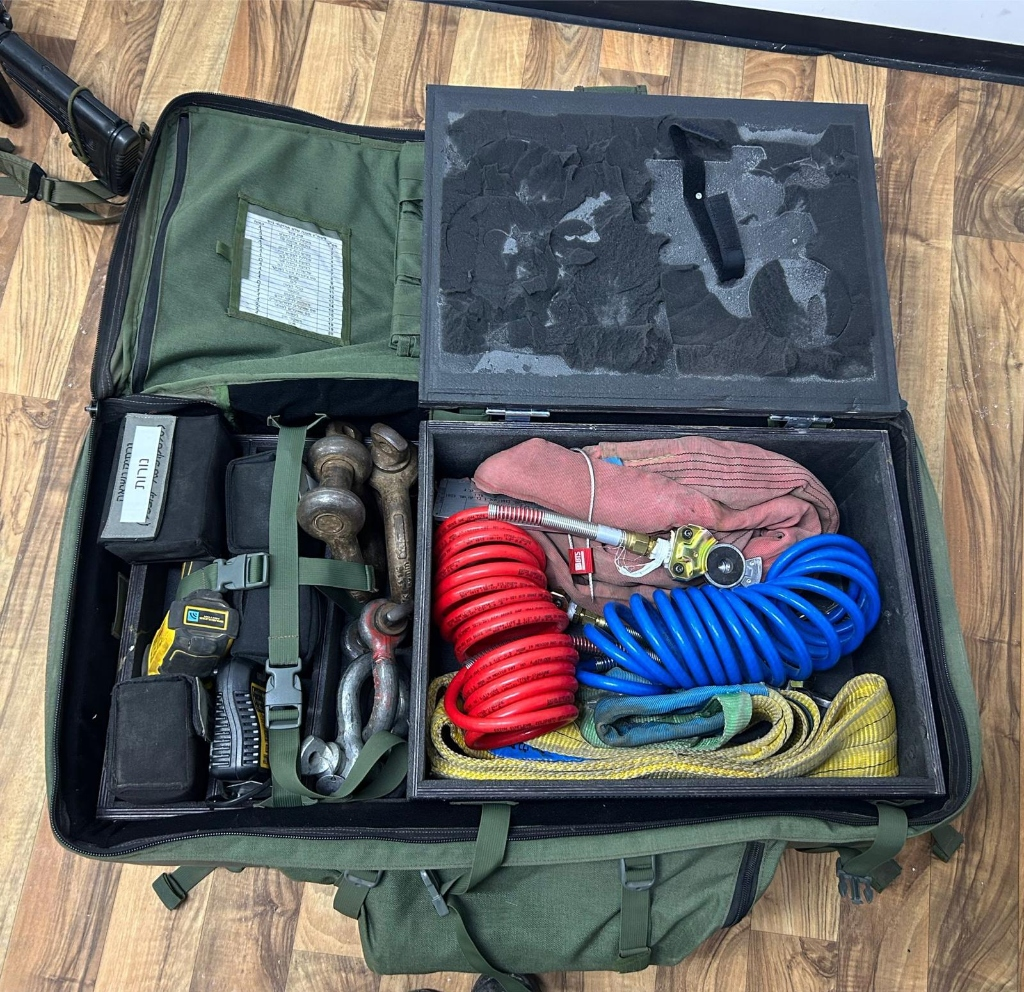
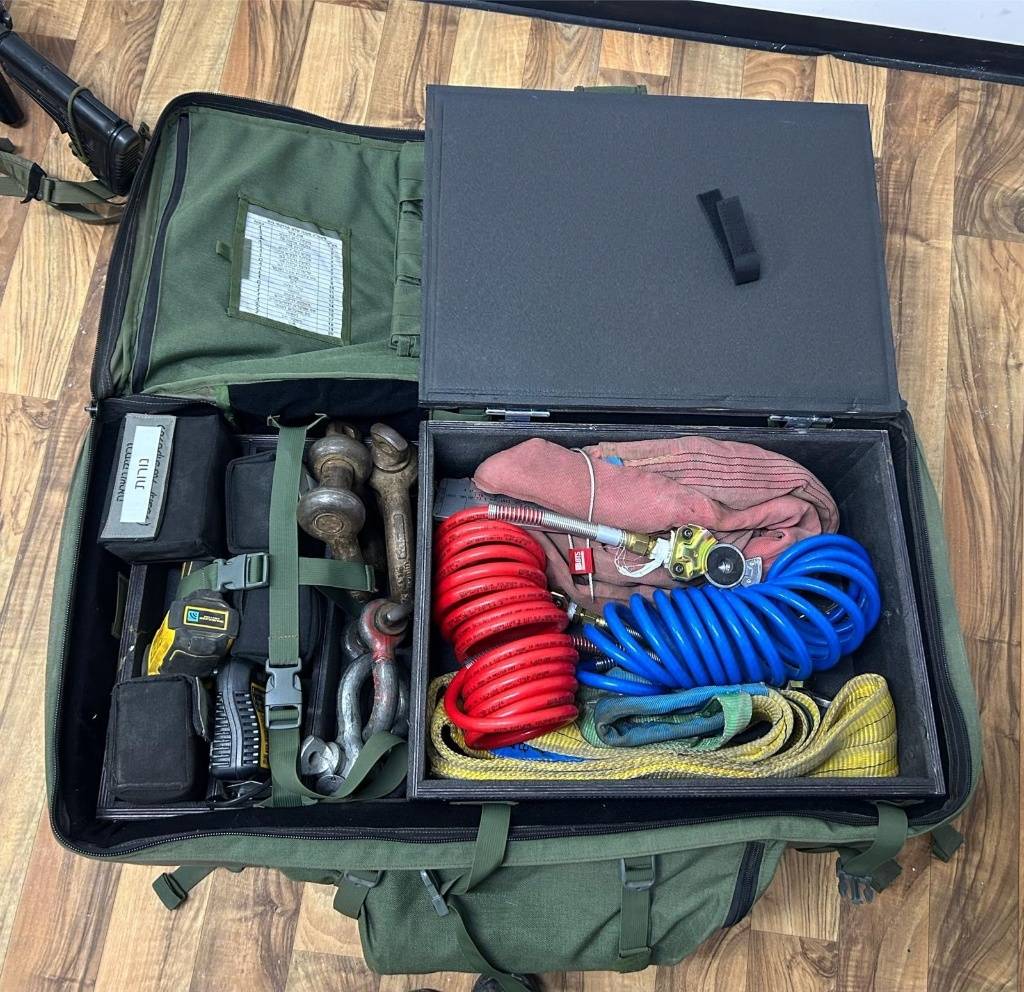
Smooth open foam lid in 04 bp-towing-open.jpg and align compartment captions with BOM

Changed region(s): [[0.4062, 0.0938, 0.875, 0.4062]]

diff --git a/index.html b/index.html
@@ -1600,9 +1600,9 @@
                     <img src="bp-interior.jpg" alt="03 פנים התיק וחלוקת התאים" loading="lazy" />
                     <span class="bp-thumb-num">03 פנים התיק</span>
                   </button>
-                  <button type="button" class="bp-thumb-btn" id="bpThumb-3" onclick="selectBpZone(3)" title="04 תא החילוץ וצינורות האוויר (פתוח)">
-                    <img src="bp-towing-open.jpg" alt="04 תא החילוץ וצינורות האוויר (פתוח)" loading="lazy" />
-                    <span class="bp-thumb-num">04 תא חילוץ</span>
+                  <button type="button" class="bp-thumb-btn" id="bpThumb-3" onclick="selectBpZone(3)" title="04 תא רצועות גרירה וחילוץ (פתוח)">
+                    <img src="bp-towing-open.jpg" alt="04 תא רצועות גרירה וחילוץ (פתוח)" loading="lazy" />
+                    <span class="bp-thumb-num">04 תא גרירה</span>
                   </button>
                   <button type="button" class="bp-thumb-btn" id="bpThumb-4" onclick="selectBpZone(4)" title="05 מעטפת חיצונית ומיתוג מענה שלם">
                     <img src="bp-exterior.jpg" alt="05 מעטפת חיצונית ומיתוג מענה שלם" loading="lazy" />
@@ -1625,7 +1625,7 @@
                     <button type="button" class="marker-tab active" id="mTab-0" onclick="selectBpZone(0)">01 שרטוט מבנה הנדסי (שחור-לבן)</button>
                     <button type="button" class="marker-tab" id="mTab-1" onclick="selectBpZone(1)">02 שרטוט מפרט צבעוני ליצרן</button>
                     <button type="button" class="marker-tab" id="mTab-2" onclick="selectBpZone(2)">03 פנים התיק (מכסה סגור)</button>
-                    <button type="button" class="marker-tab" id="mTab-3" onclick="selectBpZone(3)">04 תא חילוץ וצינורות אוויר (פתוח)</button>
+                    <button type="button" class="marker-tab" id="mTab-3" onclick="selectBpZone(3)">04 תא רצועות גרירה וחילוץ (פתוח)</button>
                     <button type="button" class="marker-tab" id="mTab-4" onclick="selectBpZone(4)">05 מעטפת חיצונית ("מענה שלם")</button>
                     <button type="button" class="marker-tab" id="mTab-5" onclick="selectBpZone(5)">06 הנדסת אנוש וניסוי נשיאה</button>
                     <button type="button" class="marker-tab" id="mTab-6" onclick="selectBpZone(6)">07 רשמ"צ מובנה (20 פריטים)</button>
@@ -1958,11 +1958,11 @@
       },
       {
         img: 'bp-towing-open.jpg',
-        code: 'תצוגה 04 / תא החילוץ הפנימי ומערך צינורות האוויר (פתוח)',
-        title: 'פתיחת תא החילוץ הפנימי: רצועות גרירה וסט צינורות אוויר',
-        desc: 'פתיחת מכסה הצירים המרופד של הארגז הפנימי חושפת את מערך החילוץ והאוויר המאורגן: רצועות גרירה 3 מ׳ ו-9 מ׳, סט צינורות אוויר ספירליים (אדום וכחול) עם מחברי לחץ מהירים לרכבים ממוגנים, ולצידם סטי השאקלים ופטיש הכוח המעוגנים במקומם.',
+        code: 'תצוגה 04 / תא רצועות גרירה וחילוץ בפתיחה מלאה',
+        title: 'תא רצועות גרירה וחילוץ (פתוח): רצועות גרירה 3 מ׳ ו-9 מ׳ ואביזרי חילוץ',
+        desc: 'פתיחת מכסה הספוג המוקשח של תא "רצועות גרירה" חושפת את פריטי החילוץ המעוגנים בתוך הארגז הפנימי בהתאם לרשמ"צ (תמונה 07): רצועת גרירה 3 מ׳, רצועת גרירה 9 מ׳, אביזרי לחץ וחיבור מהיר לרכבים ממוגנים, ולצידם סטי השאקלים, פטיש כוח + מטען ו-2 סוללות, ומארז הנורות.',
         mat: 'ארגז פנימי מוקשח עם מכסה צירים מרופד ספוג',
-        kpi: 'שליפה מיידית של מערך הגרירה והאוויר תחת לחץ מבצעי'
+        kpi: 'שליפה מיידית של מערך הגרירה והחילוץ תחת לחץ מבצעי'
       },
       {
         img: 'bp-exterior.jpg',

diff --git a/README.md b/README.md
@@ -209,18 +209,18 @@
   <thead>
     <tr align="right">
       <th align="right" width="50%">03 פנים התיק בפועל (פתיחה מלאה 180 מעלות)</th>
-      <th align="right" width="50%">04 תא החילוץ הפנימי וסט צינורות האוויר (פתוח)</th>
+      <th align="right" width="50%">04 תא רצועות גרירה וחילוץ (פתוח)</th>
     </tr>
   </thead>
   <tbody>
     <tr align="right">
       <td align="right">
         <img src="https://yulishamir.github.io/bp-interior.jpg" alt="פנים התיק בפועל בפתיחה מלאה" width="100%" /><br/>
-        המוצר המוגמר בפתיחה מלאה: בדופן התחתונה תא ספוג קשיח עם מכסה ואבזמים עבור רצועות הגרירה, לצד עיגון לשאקלים, פטיש כוח, מטען ותא נורות. בדופן העליונה כיסים מתויגים וחלון רשמ"צ שקוף.
+        המוצר המוגמר בפתיחה מלאה: בדופן התחתונה תא ספוג קשיח המסומן "רצועות גרירה" עם מכסה ואבזמים, לצד עיגון לשאקלים, פטיש כוח, מטען ותא "נורות". בדופן העליונה כיסים מתויגים (מטען טאבלט, אזיקונים, סרט בידוד, שמן נשקים, מטלית לניקוי ידיים, כפפות) וחלון רשמ"צ שקוף.
       </td>
       <td align="right">
-        <img src="https://yulishamir.github.io/bp-towing-open.jpg" alt="פתיחת תא החילוץ הפנימי וסט צינורות האוויר" width="100%" /><br/>
-        פתיחת מכסה הצירים המרופד של הארגז הפנימי חושפת את מערך החילוץ והאוויר המאורגן: רצועות גרירה 3 מ' ו-9 מ', סט צינורות אוויר ספירליים (אדום וכחול) עם מחברי לחץ מהירים לרכבים ממוגנים, ולצידם סטי השאקלים ופטיש הכוח.
+        <img src="https://yulishamir.github.io/bp-towing-open.jpg" alt="תא רצועות גרירה וחילוץ פתוח" width="100%" /><br/>
+        פתיחת מכסה הצירים המרופד של תא "רצועות גרירה" חושפת את מערך החילוץ המאורגן לפי הרשמ"צ (תמונה 07): רצועת גרירה 3 מ', רצועת גרירה 9 מ', ואביזרי חילוץ וחיבור לרכבים ממוגנים, ולצידם סטי השאקלים ופטיש הכוח.
       </td>
     </tr>
   </tbody>
